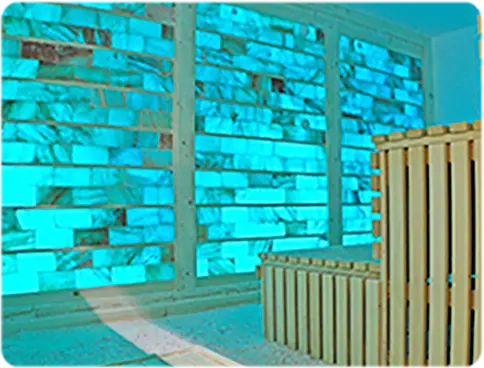
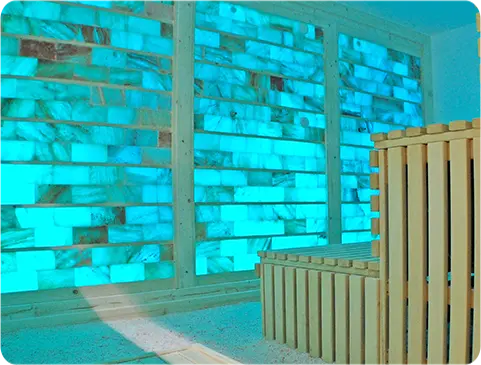
small changes done.

diff --git a/css/style.css b/css/style.css
@@ -220,9 +220,13 @@ ul.header-top li a:hover {
 .service-wrp { position: relative; padding: 0px 0 50px 0; } 
 .service-title { position: relative; width: 100%; max-width: 1060px; padding: 28px 20px 20px 20px; background: linear-gradient( 90deg, #0000 0%, #ffffff 28.5%, #ffffff 85.71%, #0000 100% ); margin: 0 auto 120px auto; } 
 .service-title h2 { width: 100%; max-width: 770px; margin: 0 auto; color: #8db9d3; font-size: 30px; font-family: "Open Sauce"; font-weight: 300; text-align: center; } 
-.service-left {width: 100%;height: 100%;padding-right: 220px;} 
+
+.service-left {width: 100%;height: 100%;padding-right: 40px;} 
+.service-left figure {height: 100%;width: 100%;}
+.service-left img {object-fit: cover; height: 100%; width: 100%; border-radius: 20px; -webkit-border-radius: 20px; -moz-border-radius: 20px; -ms-border-radius: 20px; -o-border-radius: 20px; } .service-right h2 { color: #000; font-family: "Open Sauce"; font-weight: 500; font-size: 32px; } 
+
 .service-right {width: 100%;height: 100%;} 
-.service-left img { height: 100%; width: 100%; border-radius: 20px; -webkit-border-radius: 20px; -moz-border-radius: 20px; -ms-border-radius: 20px; -o-border-radius: 20px; } .service-right h2 { color: #000; font-family: "Open Sauce"; font-weight: 500; font-size: 32px; } 
+.service-right {padding-left: 80px;}
 .service-right ul { margin-top: 28px; } 
 .service-right ul li { color: #868686; position: relative; padding-left: 36px; font-family: "Open Sauce"; font-weight: 500; margin-bottom: 8px; } 
 .service-right ul li::after { position: absolute; top: 50%; transform: translateY(-50%); left: 4px; content: ''; border: 2px solid #2585BB; width: 20px; height: 20px; border-radius: 50%; -webkit-border-radius: 50%; -moz-border-radius: 50%; -ms-border-radius: 50%; -o-border-radius: 50%; background-color: transparent; -webkit-transform: translateY(-50%); -moz-transform: translateY(-50%); -ms-transform: translateY(-50%); -o-transform: translateY(-50%); } 

diff --git a/css/responsive.css b/css/responsive.css
@@ -61,7 +61,8 @@
 
 	/* service */
 	.service-title {margin: 0 auto 100px auto;}
-	.service-grid .service-left { padding-right: 80px; }
+	.service-grid .service-left { padding-right: 0px; }
+	.service-right { padding-left: 40px; }
 
 	/* Partners Section */
 	.partners .swiper-slide { width: 120px; }
@@ -138,6 +139,7 @@
 	/* service */
 	.service-title {margin: 0 auto 80px auto;}
 	.service-grid .service-left { padding-right: 0px; }
+	.service-right { padding-left: 20px; }
 	.service-title h2 {font-size: 28px;}
 	.service-right h2 {font-size: 28px;}
 
@@ -228,6 +230,7 @@
 	/* service */
 	.service-title {margin: 0 auto 60px auto;}
 	.service-grid .service-left { padding-right: 0px; margin-bottom: 40px;}
+	.service-right {padding-left: 0;}
 	.service-title h2 {font-size: 28px;}
 	.service-right h2 {font-size: 28px; margin-top: 40px;}
 
@@ -303,6 +306,7 @@
 	.service-title {margin: 0 auto 60px auto;}
 	.service-grid .service-left { padding-right: 0px; margin-bottom: 40px;}
 	.service-title h2 {font-size: 26px;}
+	.service-right {padding-left: 0;}
 	.service-right h2 {font-size: 26px; margin-top: 40px;}
 
 	/* Partners Section */

diff --git a/index.html b/index.html
@@ -126,14 +126,14 @@
 
                     <div class="service-grid">
                         <div class="row">
-                            <div class="col-12 col-sm-12 col-md-12 col-lg-6">
+                            <div class="col-12 col-sm-12 col-md-12 col-lg-5">
                                 <div class="service-left">
                                     <figure>
                                         <img src="images/feature.webp" alt="service-img" class="img-fluid">
                                     </figure>
                                 </div>
                             </div>
-                            <div class="col-12 col-sm-12 col-md-12 col-lg-6">
+                            <div class="col-12 col-sm-12 col-md-12 col-lg-7">
                                 <div class="service-right">
                                     <h2 data-aos="fade-up">Ihr Partner für exklusive Salzräume in
                                         Hotels- und Spa-Anlagen.</h2>

diff --git a/js/custom.js b/js/custom.js
@@ -6,7 +6,7 @@ $(document).ready(function () {
   });
 
   $(window).scroll(function () {
-    if ($(this).scrollTop() > 150) {
+    if ($(this).scrollTop() > 50) {
       $("header").addClass("nav-new");
     } else {
       $("header").removeClass("nav-new");
